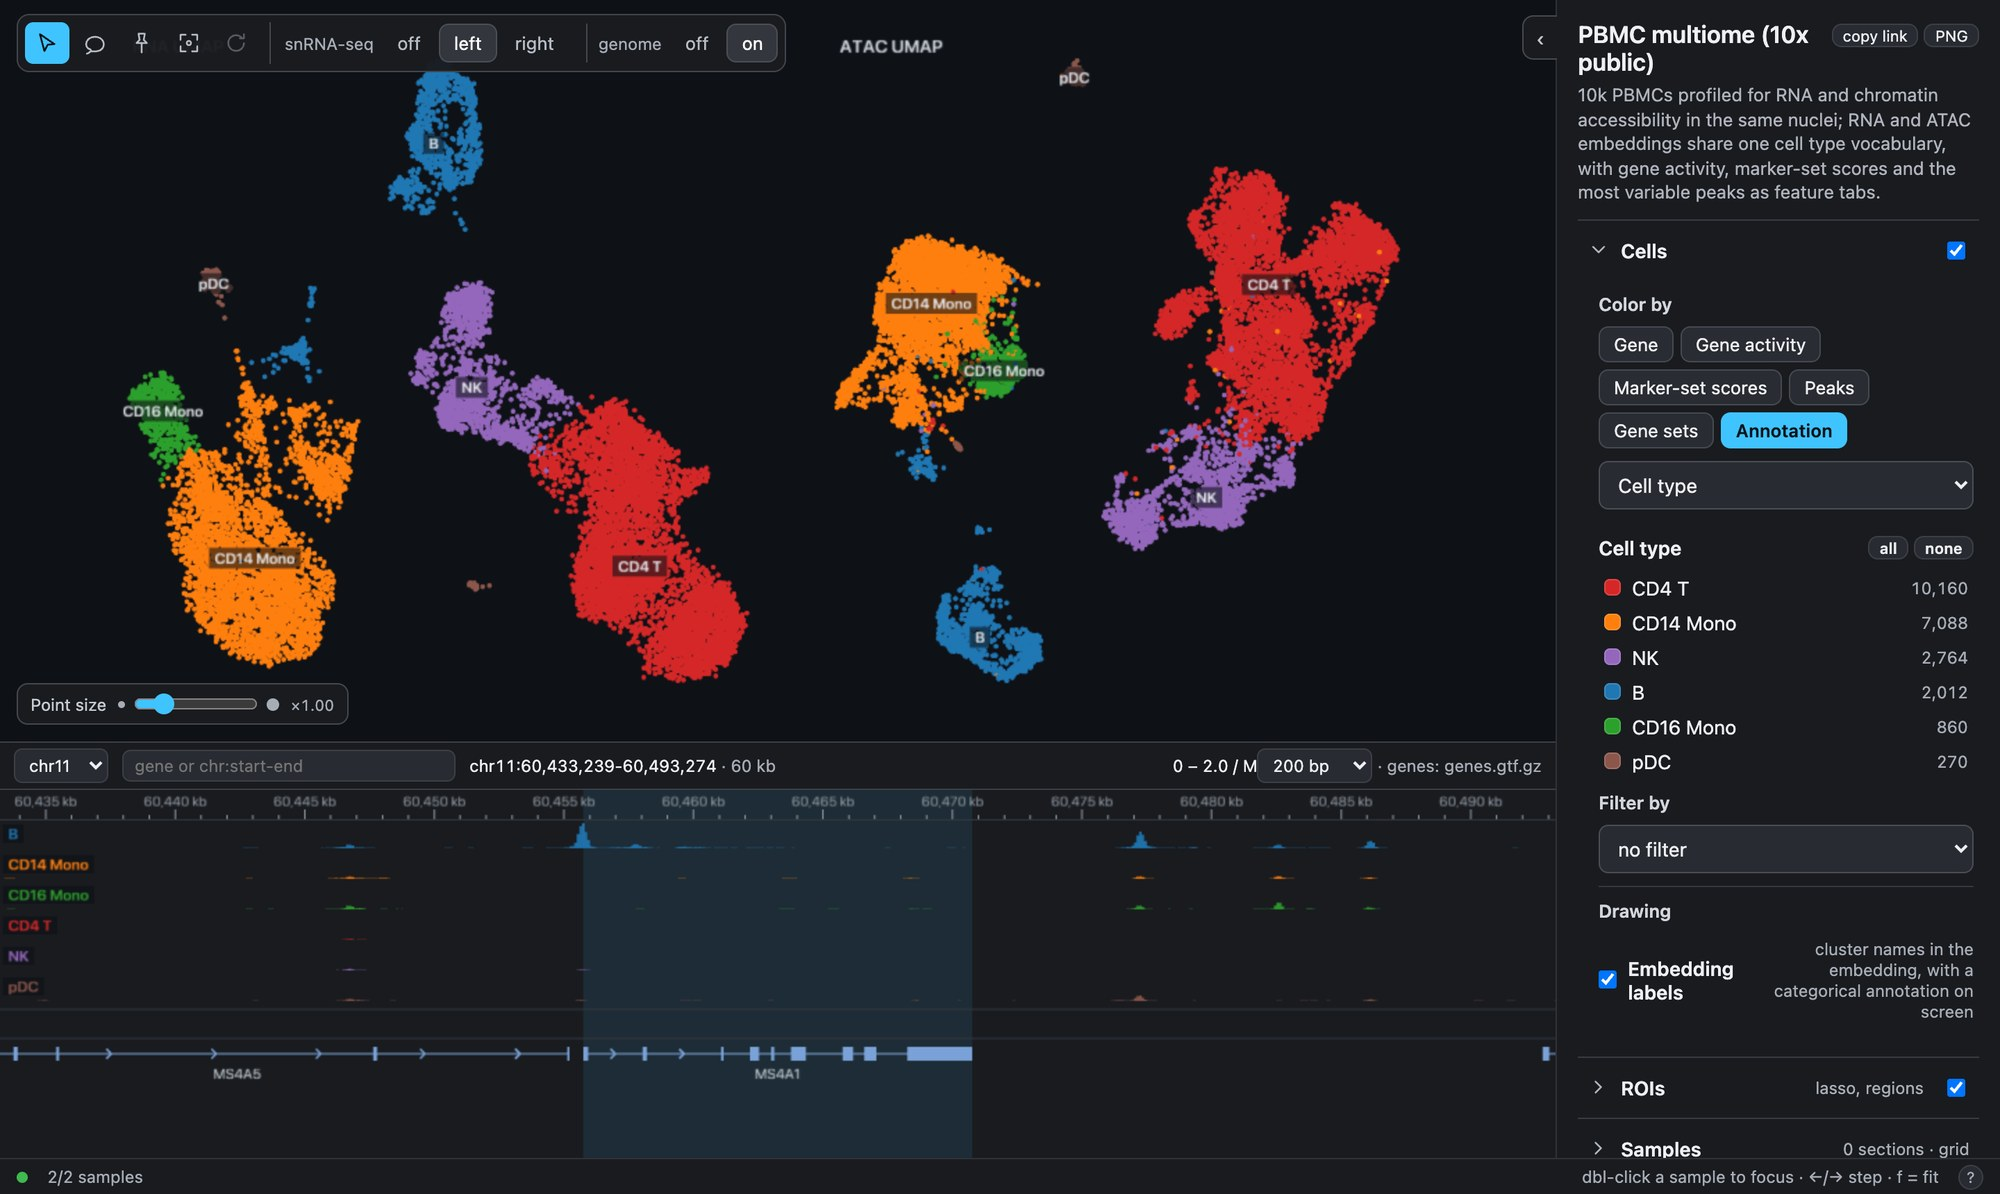
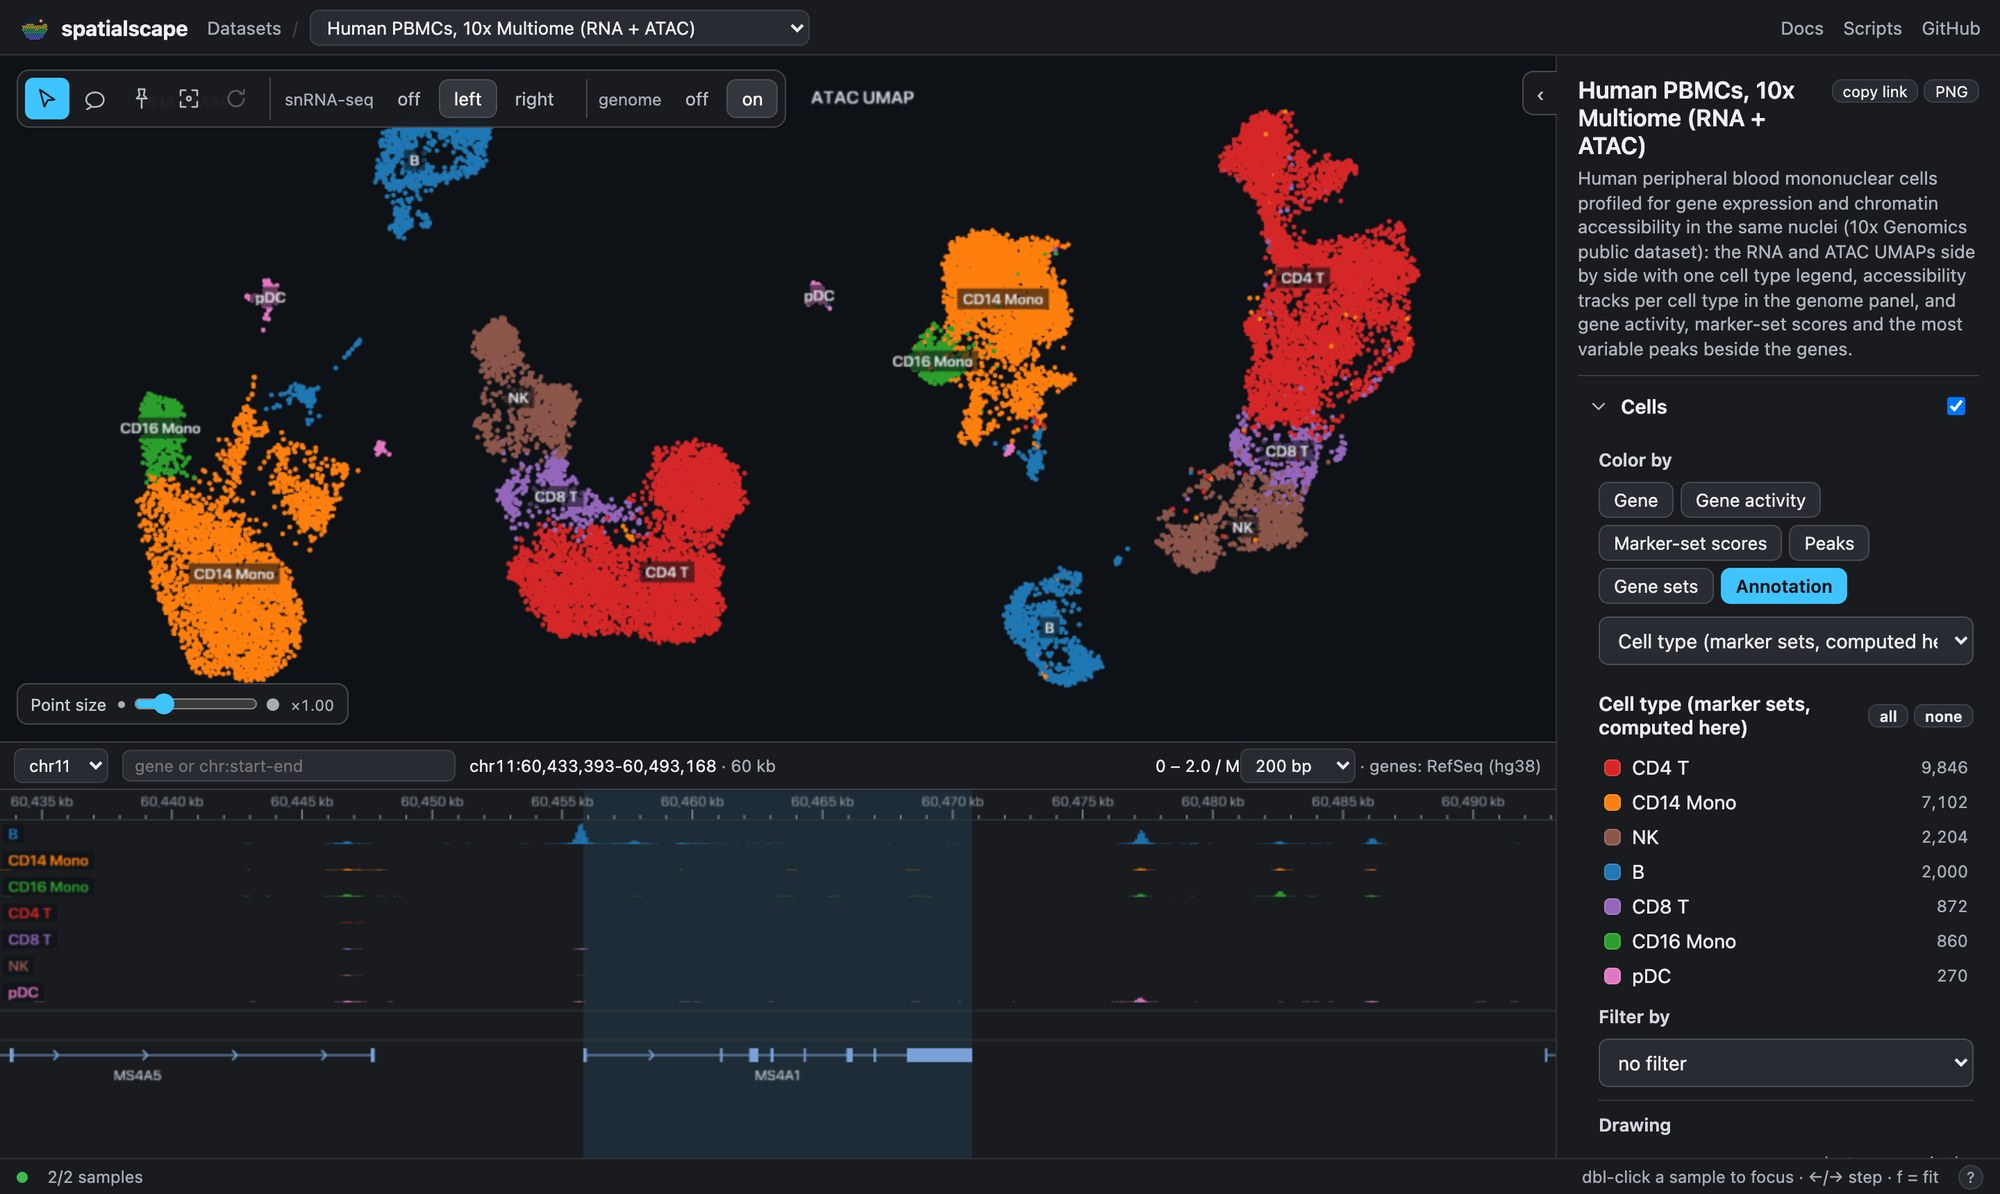
The PBMC multiome is the tenth public example: gallery card, docs, a picture from the live app
The dataset now lives in spatialscape-examples as pbmc-multiome and is live in the examples gallery, so
examples/pbmc_multiome.yaml and examples/scripts/pbmc_multiome.py leave this repository. The built-in gallery
(app/public/datasets.json) is the live datasets.json: ten cards, the PBMC card second under Main examples.
docs/index.md and README.md link the multiome picture to the live app, and the picture is re-captured from it
(seven cell types, RefSeq gene models); docs/guide/examples.md gains its row and counts ten.

diff --git a/README.md b/README.md
@@ -97,7 +97,7 @@ From R, `reticulate::py_require("spatialscape")`, one `saveRDS`, and `ss$show("s
 <p align="center"><sub>Scale: the Allen Brain Cell Atlas of the whole mouse brain, 4.0 million nuclei on their UMAP beside 59 MERFISH sections with another 4.0 million cells.</sub></p>
 
 <p align="center">
-  <img src="https://raw.githubusercontent.com/MicTott/spatialscape/main/docs/public/screenshots/pbmc-multiome.jpg" width="49%" alt="10x PBMC multiome: the RNA and ATAC UMAPs of the same nuclei over the accessibility tracks at MS4A1">
+  <a href="https://d2lbhik7smmaaj.cloudfront.net/?d=pbmc-multiome"><img src="https://raw.githubusercontent.com/MicTott/spatialscape/main/docs/public/screenshots/pbmc-multiome.jpg" width="49%" alt="10x PBMC multiome: the RNA and ATAC UMAPs of the same nuclei over the accessibility tracks at MS4A1"></a>
   <a href="https://d2lbhik7smmaaj.cloudfront.net/?d=atera&amp;v=5039,4729,2.8&amp;c=g:EPCAM&amp;mol=1&amp;mg=PTPRC%7CCOL1A1%7CACTA2%7CKRT8&amp;cs=outlined&amp;msz=2.00"><img src="https://raw.githubusercontent.com/MicTott/spatialscape/main/docs/public/screenshots/atera-transcripts.jpg" width="49%" alt="Atera breast cancer section zoomed to single cells: transcripts of five genes over the morphology image and the cell outlines"></a>
 </p>
 <p align="center"><sub>Left, breadth: a 10x multiome, RNA and ATAC UMAPs of the same nuclei over accessibility tracks per cell type. Right, new technology: a whole-transcriptome Atera section of breast cancer, single transcripts over the morphology image and the cell outlines.</sub></p>
@@ -123,7 +123,7 @@ From R, `reticulate::py_require("spatialscape")`, one `saveRDS`, and `ss$show("s
 app/       the viewer: Vite + React 19 + TypeScript (deck.gl 9, Viv, zarrita, Zustand)
 python/    the spatialscape CLI (anndata, zarr v3, pydantic); the built viewer ships inside the wheel
 docs/      the documentation site (VitePress); the CLI pages are generated from the help text
-examples/  the synthetic demo and a 10x PBMC multiome config; the public example datasets have their own repository
+examples/  the synthetic demo; the public example datasets have their own repository
 ```
 
 ## Development

diff --git a/docs/guide/examples.md b/docs/guide/examples.md
@@ -1,6 +1,6 @@
 # Reproduce the examples
 
-The nine public example apps are live in the [examples gallery](https://d2lbhik7smmaaj.cloudfront.net). They are built from
+The ten public example apps are live in the [examples gallery](https://d2lbhik7smmaaj.cloudfront.net). They are built from
 <https://github.com/MicTott/spatialscape-examples>: one folder per dataset
 with the script that fetches the published files, the script (when one is needed) that turns them into an AnnData,
 the `dataset.yaml` that describes the app, and a README with the source, the licence and what each step costs.
@@ -16,6 +16,7 @@ Nothing in an app is edited by hand; every one rebuilds from those files, on a l
 | `merscope-mouse-brain` | MERSCOPE: boundaries, transcripts, mosaics | 3 slices, 233k cells | Vizgen | [open](https://d2lbhik7smmaaj.cloudfront.net/?d=merscope-mouse-brain) |
 | `cosmx-nsclc` | CosMx SMI: cell types and niches, boundaries, transcripts, composites | 8 sections, 800k cells | NanoString (He et al. 2022) | [open](https://d2lbhik7smmaaj.cloudfront.net/?d=cosmx-nsclc) |
 | `spatial-atac-rna-mouse-brain` | spatial ATAC + RNA: RNA on 20 µm pixels, ATAC tracks per cluster | 3 sections, 14k pixels | GEO GSE205055 | [open](https://d2lbhik7smmaaj.cloudfront.net/?d=spatial-atac-rna-mouse-brain) |
+| `pbmc-multiome` | 10x Multiome: RNA and ATAC UMAPs of the same nuclei, ATAC tracks per cell type | 11,577 nuclei | 10x Genomics | [open](https://d2lbhik7smmaaj.cloudfront.net/?d=pbmc-multiome) |
 | `abc-atlas` | whole mouse brain: 59 MERFISH sections and all 10x nuclei on Allen's UMAP | 4.0 M cells + 4.0 M nuclei | Allen Brain Cell Atlas | [open](https://d2lbhik7smmaaj.cloudfront.net/?d=abc-atlas) |
 
 ## Start with an R object

diff --git a/docs/index.md b/docs/index.md
@@ -48,7 +48,7 @@ features:
 <div style="display: grid; grid-template-columns: repeat(auto-fit, minmax(min(100%, 300px), 1fr)); gap: 20px; margin-top: 24px;">
 <div>
 
-[![10x PBMC multiome: the RNA and ATAC UMAPs of the same nuclei over the accessibility tracks at MS4A1](/screenshots/pbmc-multiome.jpg)](/guide/tracks)
+[![10x PBMC multiome: the RNA and ATAC UMAPs of the same nuclei over the accessibility tracks at MS4A1](/screenshots/pbmc-multiome.jpg)](https://d2lbhik7smmaaj.cloudfront.net/?d=pbmc-multiome)
 
 **Breadth.** A 10x multiome: the RNA and ATAC UMAPs of the same nuclei with one cell type legend, over accessibility tracks per cell type at MS4A1.
 
@@ -62,7 +62,7 @@ features:
 </div>
 </div>
 
-The Allen atlas and Atera are two of nine in the **[examples gallery](https://d2lbhik7smmaaj.cloudfront.net)**, one public dataset per technology: Visium, Visium CytAssist, Visium HD, Xenium, MERSCOPE, CosMx, Atera, spatial ATAC + RNA, and the Allen whole mouse brain. Nothing to install, and each rebuilds from the published files with the scripts in [Reproduce the examples](/guide/examples).
+These three are among the ten in the **[examples gallery](https://d2lbhik7smmaaj.cloudfront.net)**, one public dataset per technology: Visium, Visium CytAssist, Visium HD, Xenium, MERSCOPE, CosMx, Atera, spatial ATAC + RNA, a 10x multiome, and the Allen whole mouse brain. Nothing to install, and each rebuilds from the published files with the scripts in [Reproduce the examples](/guide/examples).
 
 ## In three commands
 

diff --git a/CHANGELOG.md b/CHANGELOG.md
@@ -2,6 +2,10 @@
 
 ## Unreleased
 
+**The PBMC multiome example moved to the examples repository.** `examples/pbmc_multiome.yaml` and
+`examples/scripts/pbmc_multiome.py` are gone from this repository: the dataset is now `pbmc-multiome` in
+`spatialscape-examples`, built by one `build.sh` from the public 10x files, and the tenth app of the examples gallery.
+
 **Gallery groups.** A card in `site.yaml` may name a `group:`; the gallery then draws each group as a section under
 its heading, in the order the groups first appear, with ungrouped cards last. A group of up to three cards fills the
 row, so lead examples draw larger. Cards show their `tags` as pills after the platforms (the platform `other` is no
